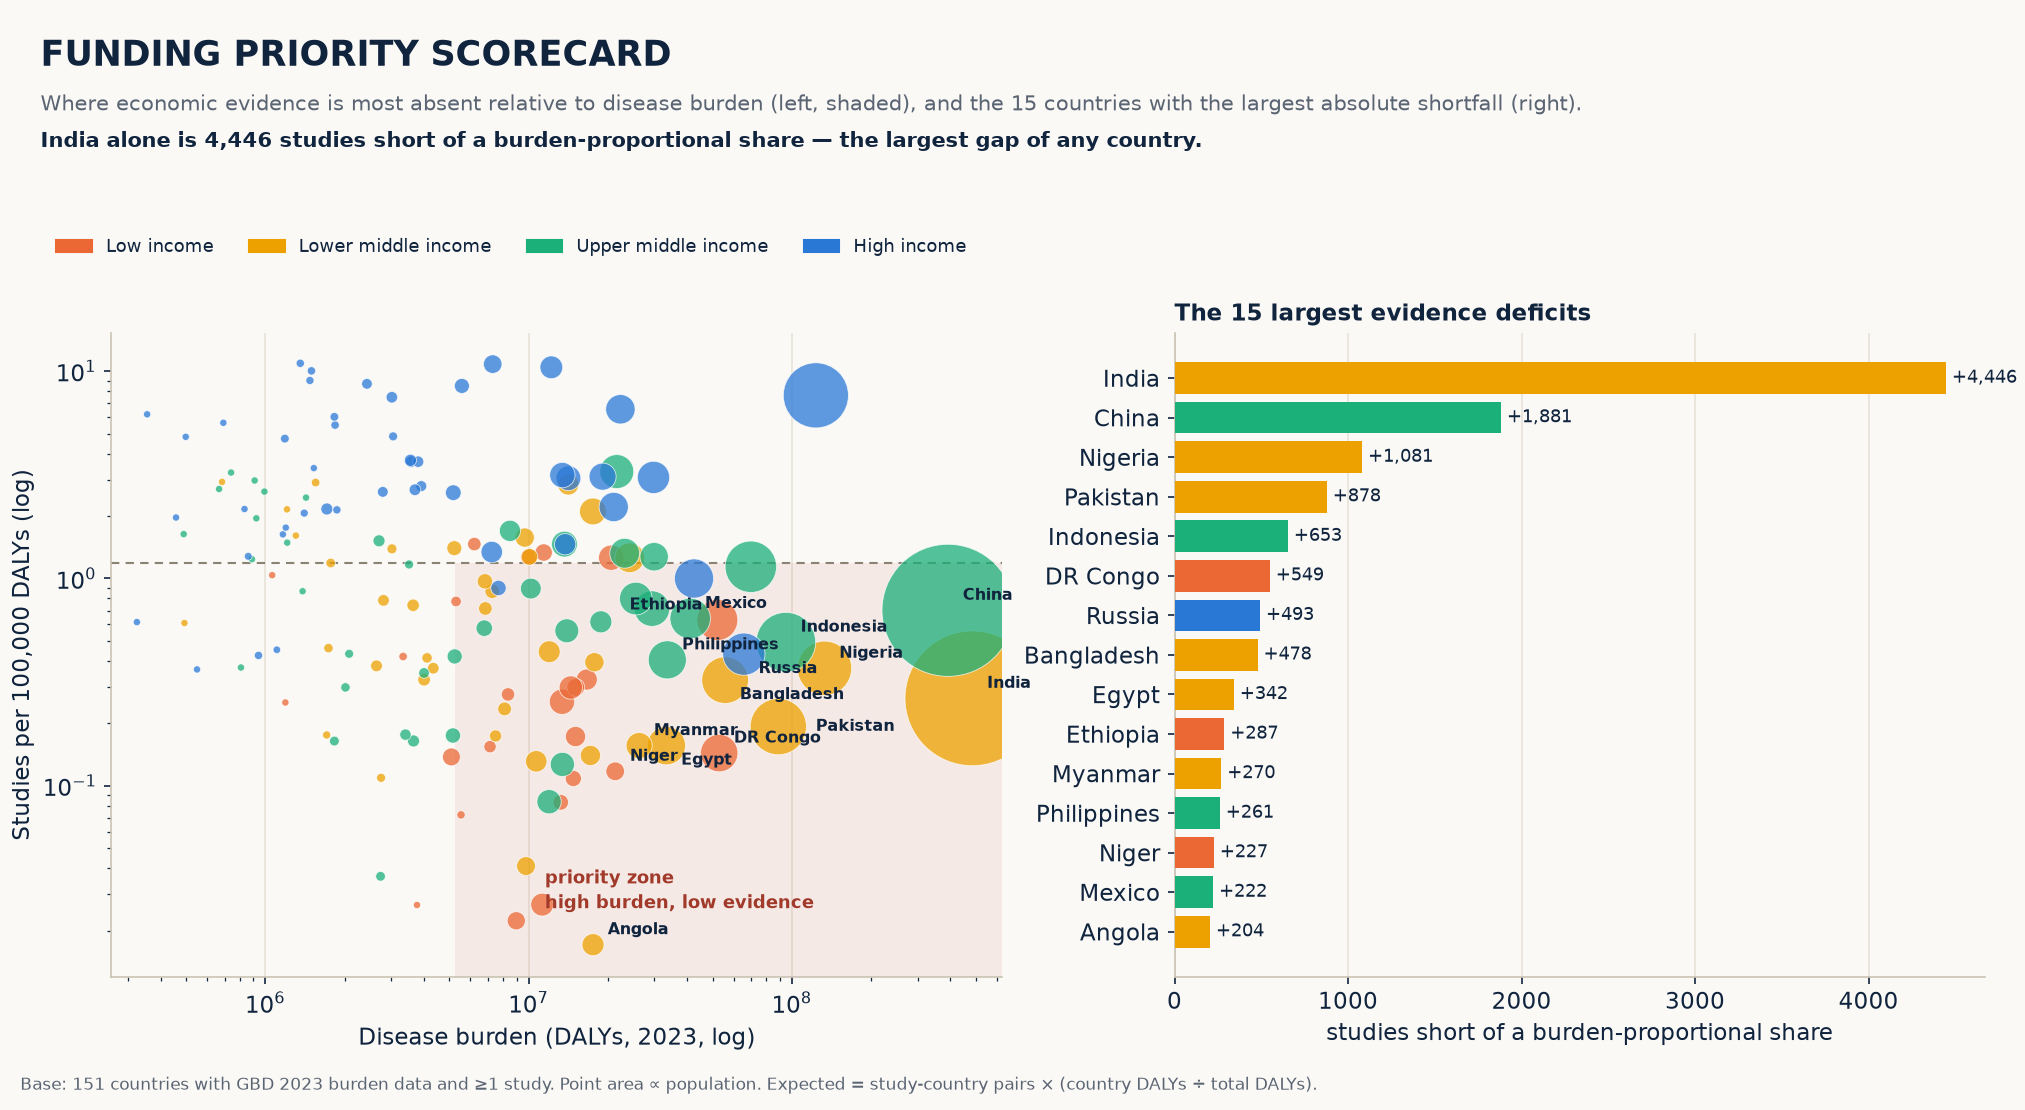
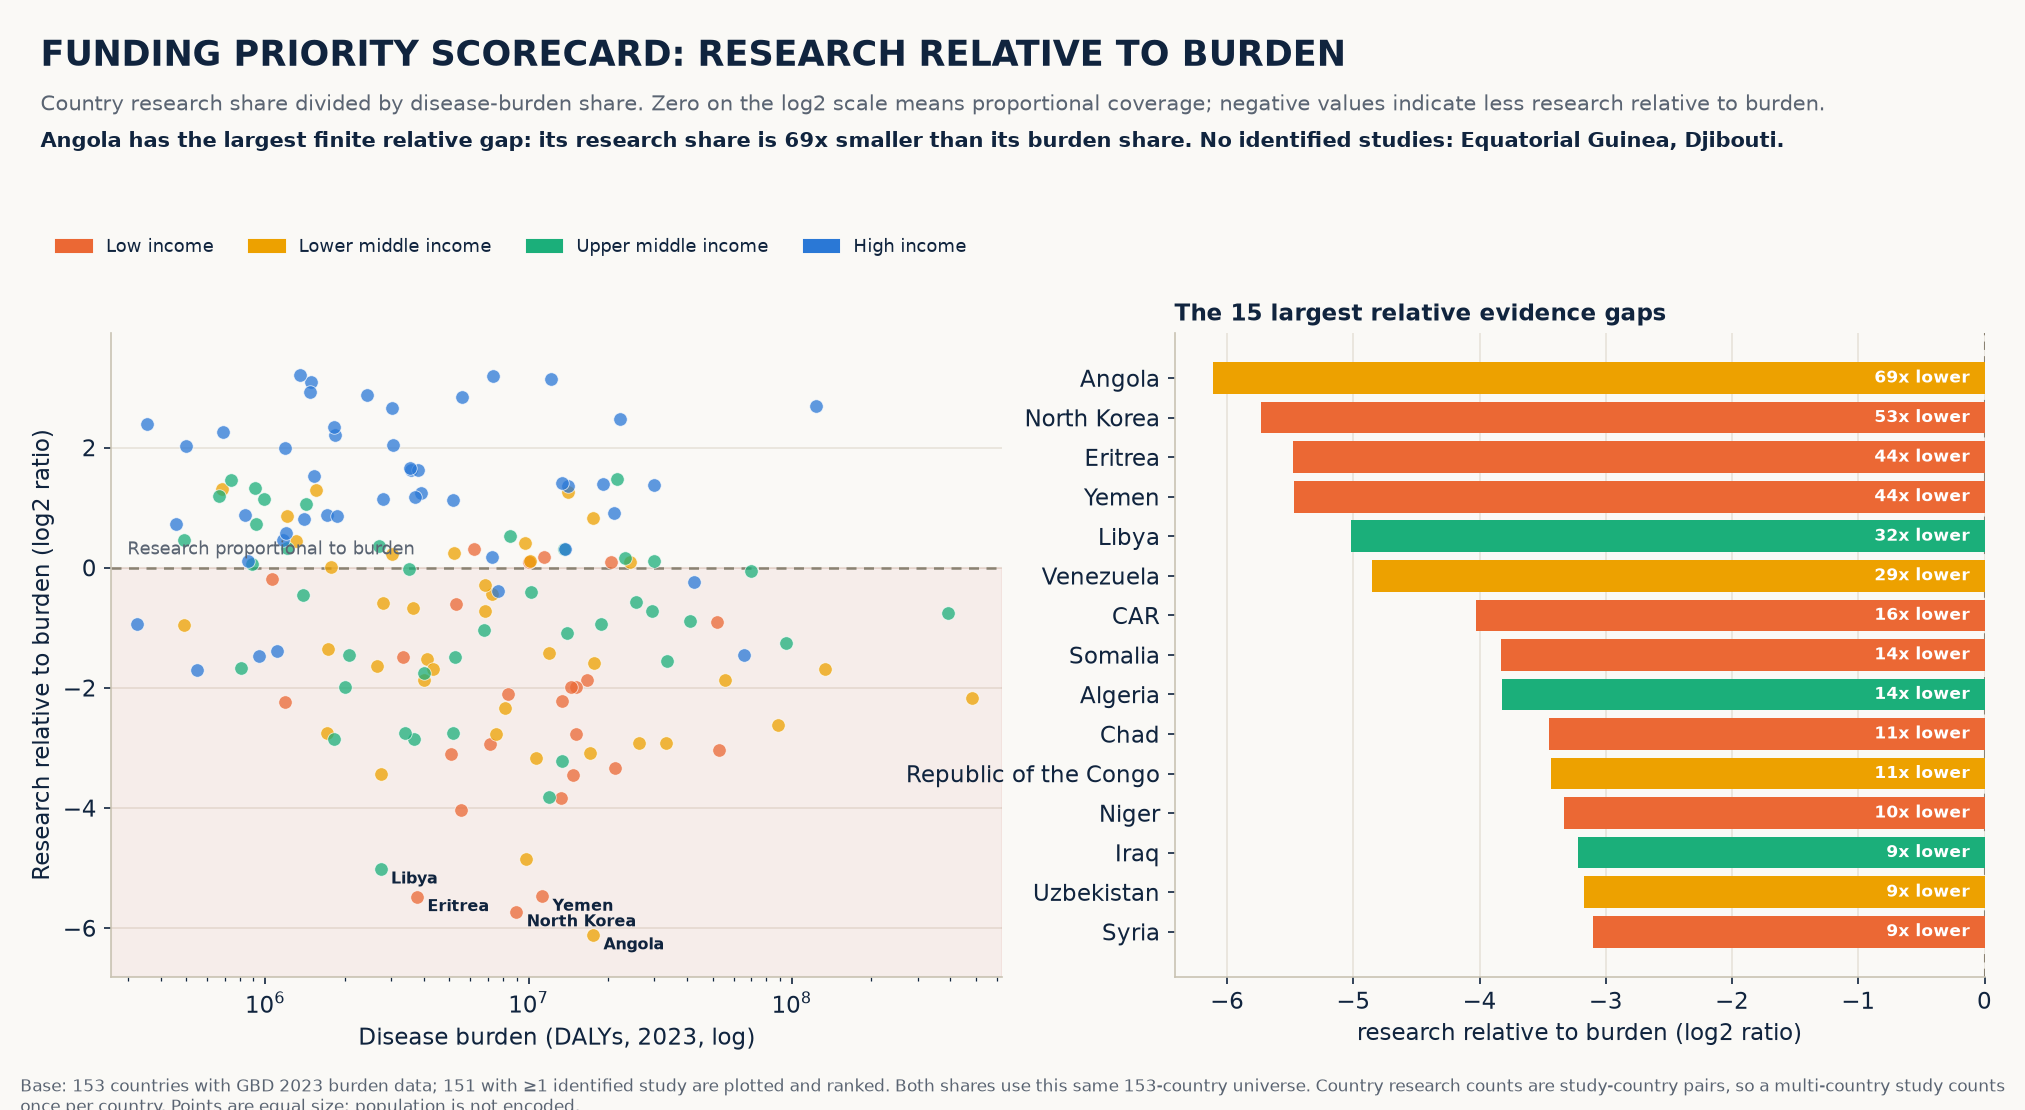
Updated figures

diff --git a/docs/index.html b/docs/index.html
@@ -41,7 +41,6 @@
   <!-- ============ OVERVIEW ============ -->
   <section class="tab-pane active" id="pane-overview">
     <div class="overview-intro">
-      <div class="overview-kicker">HSF project · Studies on health financing functions</div>
       <h2 class="hero-title">See where health financing evidence is strong — and where important gaps remain</h2>
       <div class="overview-update" id="overview-updated"></div>
       <p class="hero-text">Part of the Health Systems Financing (HSF) project, this evidence map brings together more than 36,000 studies published since 2010 that examine health financing functions — how health systems raise, pool and spend money. Explore what has been studied, where evidence is concentrated, how the field is changing, and which countries and health financing priorities remain underexplored.</p>
@@ -82,6 +81,16 @@
         </div>
       </div>
       <div class="card overview-analysis-card">
+        <div class="card-header">What gets evaluated?</div>
+        <div class="card-body overview-analysis-body">
+          <button class="overview-figure-button" id="ov-disease-method-open" type="button"
+                  aria-label="Open the figure showing how each disease area is evaluated">
+            <img class="overview-analysis-figure" src="figures/fig_disease_method.png?v=2026-10-07e"
+                 alt="Heatmap showing the mix of financing functions evaluated within each disease area">
+          </button>
+        </div>
+      </div>
+      <div class="card overview-analysis-card">
         <div class="card-header">Top research funders</div>
         <div class="card-body overview-analysis-body">
           <button class="overview-figure-button" id="ov-funders-open" type="button"
@@ -92,17 +101,7 @@
         </div>
       </div>
       <div class="card overview-analysis-card overview-analysis-card-wide">
-        <div class="card-header">What gets evaluated?</div>
-        <div class="card-body overview-analysis-body overview-analysis-body-wide">
-          <button class="overview-figure-button" id="ov-disease-method-open" type="button"
-                  aria-label="Open the figure showing how each disease area is evaluated">
-            <img class="overview-analysis-figure" src="figures/fig_disease_method.png?v=2026-10-07e"
-                 alt="Heatmap showing the mix of financing functions evaluated within each disease area">
-          </button>
-        </div>
-      </div>
-      <div class="card overview-analysis-card overview-analysis-card-wide">
-        <div class="card-header">Funding and evidence across Wellcome priority themes</div>
+        <div class="card-header">Indicative mapping of studies to Wellcome priority themes</div>
         <div class="card-body overview-analysis-body overview-analysis-body-wide">
           <button class="overview-figure-button" id="ov-wellcome-open" type="button"
                   aria-label="Open the figure showing funding and evidence across Wellcome priority themes">

diff --git a/docs/styles.css b/docs/styles.css
@@ -249,7 +249,7 @@ main { padding: 1.4rem 1.5rem 2.5rem; max-width: 1500px; margin: 0 auto; }
 }
 .overview-analysis-grid {
   display: grid;
-  grid-template-columns: repeat(3, minmax(0, 1fr));
+  grid-template-columns: repeat(2, minmax(0, 1fr));
   gap: 1rem;
   align-items: stretch;
 }

diff --git a/docs/dex_hff/build_figures_v5.py b/docs/dex_hff/build_figures_v5.py
@@ -1355,68 +1355,78 @@ fig.tight_layout()
 fig.savefig(FIGS / "fig_injustice.png", dpi=150, bbox_inches="tight")
 plt.close(fig)
 
-# --- fig_funder_scorecard: burden/intensity scatter + ranked deficit bar, side
-# by side. Mirrors HEE's own fig_funder_scorecard: a shaded "high burden, low
-# evidence" priority zone and a global-rate reference line on the scatter,
-# labelled deficit countries, a top-anchored income legend, and a 15-country
-# (not 12) deficit bar to match that reference exactly. ---
+# --- fig_funder_scorecard: size-neutral research relative to burden. Absolute
+# study shortfalls strongly favour large countries, so rank the aligned share
+# ratio instead: (country study share) / (country DALY share). ---
+scorecard_pts = cdf_b[cdf_b["studies"] > 0].copy()
+scorecard_pts["research_to_burden"] = (
+    (scorecard_pts["studies"] / TOTAL_STUDIES_ALL) /
+    (scorecard_pts["dalys"] / TOTAL_DALY_ALL)
+)
+scorecard_pts["log2_research_to_burden"] = np.log2(scorecard_pts["research_to_burden"])
+zero_study_sc = cdf_b[cdf_b["studies"] == 0].copy()
+zero_study_names_sc = ", ".join(zero_study_sc["country"].tolist())
 TOP_N_DEFICIT_SC = 15
-top_deficit_sc = cdf_b.nsmallest(TOP_N_DEFICIT_SC, "deficit").sort_values("deficit", ascending=False)
+top_deficit_sc = scorecard_pts.nsmallest(TOP_N_DEFICIT_SC, "log2_research_to_burden")
 fig = plt.figure(figsize=(13.5, 7.4))
 ax1 = fig.add_axes([0.055, 0.12, 0.44, 0.58])
 for inc in INC_ORDER:
-    sub = burden_pts[burden_pts["income"] == inc]
-    ax1.scatter(sub["dalys"], sub["per100k"].clip(lower=0.005), s=(sub["pop"] / 3.5e5).clip(lower=12),
+    sub = scorecard_pts[scorecard_pts["income"] == inc]
+    ax1.scatter(sub["dalys"], sub["log2_research_to_burden"], s=42,
                 color=INC_COLORS[inc], alpha=0.75, edgecolors="white", linewidths=0.4, zorder=3)
 ax1.set_xscale("log")
-ax1.set_yscale("log")
-
-# Priority zone: the higher-burden half of countries, below the rate a
-# perfectly burden-proportional allocation would give every country alike.
-global_rate_100k = TOTAL_STUDIES_ALL / TOTAL_DALY_ALL * 1e5
-x_min_sc, x_max_sc = burden_pts["dalys"].min() * 0.8, burden_pts["dalys"].max() * 1.3
-y_min_sc, y_max_sc = burden_pts["per100k"].clip(lower=0.005).min() * 0.7, burden_pts["per100k"].max() * 1.4
+x_min_sc, x_max_sc = scorecard_pts["dalys"].min() * 0.8, scorecard_pts["dalys"].max() * 1.3
+y_pad_sc = 0.7
+y_min_sc = scorecard_pts["log2_research_to_burden"].min() - y_pad_sc
+y_max_sc = scorecard_pts["log2_research_to_burden"].max() + y_pad_sc
 ax1.set_xlim(x_min_sc, x_max_sc)
 ax1.set_ylim(y_min_sc, y_max_sc)
-zone_x0 = burden_pts["dalys"].median()
-ax1.axhline(global_rate_100k, color="#8a8272", linewidth=1, linestyle=(0, (4, 3)), zorder=2)
-ax1.add_patch(plt.Rectangle((zone_x0, y_min_sc), x_max_sc - zone_x0, global_rate_100k - y_min_sc,
-                             facecolor="#c0392b", alpha=0.08, edgecolor="none", zorder=1))
-zone_text_sc = "priority zone\nhigh burden, low evidence"
-zone_tx_sc, zone_ty_sc = zone_x0 * 2.2, y_min_sc * 2.6
-ax1.text(zone_tx_sc, zone_ty_sc, zone_text_sc,
-         ha="left", va="center", fontsize=8.5, fontweight="bold", color="#a13a2a", linespacing=1.4)
-
-label_rows_sc = burden_pts[burden_pts["country"].isin(top_deficit_sc["country"])].sort_values("dalys")
-declutter_labels(ax1, label_rows_sc, "dalys", "per100k", name_map=SHORT_COUNTRY,
-                  avoid=[(zone_tx_sc, zone_ty_sc, "left", zone_text_sc)])
+ax1.axhspan(y_min_sc, 0, color="#c0392b", alpha=0.06, zorder=1)
+ax1.axhline(0, color="#8a8272", linewidth=1.2, linestyle=(0, (4, 3)), zorder=2)
+ax1.text(x_min_sc * 1.15, 0.15, "Research proportional to burden", ha="left", va="bottom",
+         fontsize=8.5, color=SUBHEAD_COLOR)
+for _, row in top_deficit_sc.head(5).iterrows():
+    ax1.annotate(SHORT_COUNTRY.get(row["country"], row["country"]),
+                 xy=(row["dalys"], row["log2_research_to_burden"]), xytext=(5, -7),
+                 textcoords="offset points", fontsize=7.8, fontweight="bold", color=INK)
 
 ax1.set_xlabel("Disease burden (DALYs, 2023, log)")
-ax1.set_ylabel("Studies per 100,000 DALYs (log)")
+ax1.set_ylabel("Research relative to burden (log2 ratio)")
 clean_axes(ax1)
+ax1.grid(False)
+ax1.grid(axis="y", color="#e7e3da", linewidth=0.8, zorder=0)
 
 ax2 = fig.add_axes([0.58, 0.12, 0.4, 0.58])
-ax2.barh([SHORT_COUNTRY.get(c, c) for c in top_deficit_sc["country"]], -top_deficit_sc["deficit"],
+ax2.barh([SHORT_COUNTRY.get(c, c) for c in top_deficit_sc["country"]],
+         top_deficit_sc["log2_research_to_burden"],
          color=[INC_COLORS.get(i, GREY) for i in top_deficit_sc["income"]], zorder=3)
-for y, v in enumerate(-top_deficit_sc["deficit"]):
-    ax2.text(v, y, f" +{v:,.0f}", va="center", fontsize=8.5, color=INK)
-ax2.set_xlabel("studies short of a burden-proportional share")
-ax2.set_title(f"The {TOP_N_DEFICIT_SC} largest evidence deficits", fontsize=11, fontweight="bold",
+ax2.invert_yaxis()
+for y, (_, row) in enumerate(top_deficit_sc.iterrows()):
+    fold_below = 1 / row["research_to_burden"]
+    ax2.text(-0.12, y, f"{fold_below:.0f}x lower", va="center", ha="right",
+             fontsize=8.2, fontweight="bold", color="white")
+ax2.axvline(0, color="#8a8272", linewidth=1, linestyle=(0, (4, 3)), zorder=2)
+ax2.set_xlabel("research relative to burden (log2 ratio)")
+ax2.set_title(f"The {TOP_N_DEFICIT_SC} largest relative evidence gaps", fontsize=11, fontweight="bold",
               color=INK, loc="left")
 clean_axes(ax2)
 
-sc_headline = "Funding priority scorecard"
-sc_desc = (f"Where economic evidence is most absent relative to disease burden (left, shaded), and the "
-           f"{TOP_N_DEFICIT_SC} countries with the largest absolute shortfall (right).")
-sc_finding = (f"{biggest_deficit['country']} alone is {abs(round(biggest_deficit['deficit'])):,} studies short "
-              f"of a burden-proportional share — the largest gap of any country.")
+lowest_sc = top_deficit_sc.iloc[0]
+sc_headline = "Funding priority scorecard: research relative to burden"
+sc_desc = ("Country research share divided by disease-burden share. Zero on the log2 scale means proportional "
+           "coverage; negative values indicate less research relative to burden.")
+sc_finding = (f"{lowest_sc['country']} has the largest finite relative gap: its research share is "
+              f"{1 / lowest_sc['research_to_burden']:.0f}x smaller than its burden share. "
+              f"No identified studies: {zero_study_names_sc}.")
 FIG_META["fig_funder_scorecard.png"] = (sc_headline, sc_desc, sc_finding)
 fig.text(0.02, 0.965, D(sc_headline.upper()), fontsize=17, fontweight="bold", color=INK, ha="left", va="top")
 fig.text(0.02, 0.915, D(sc_desc), fontsize=10, color=SUBHEAD_COLOR, ha="left", va="top", wrap=True)
 fig.text(0.02, 0.882, D(sc_finding), fontsize=10, fontweight="bold", color=INK, ha="left", va="top", wrap=True)
 income_legend(fig, loc="upper left", ncol=4, bbox_to_anchor=(0.02, 0.80))
-fig.text(0.01, 0.03, f"Base: {len(burden_pts):,} countries with GBD 2023 burden data and ≥1 study. Point "
-                     f"area ∝ population. Expected = study-country pairs × (country DALYs ÷ total DALYs).",
+fig.text(0.01, 0.03, f"Base: {len(cdf_b):,} countries with GBD 2023 burden data; {len(scorecard_pts):,} with ≥1 "
+                     f"identified study are plotted and ranked. Both shares use this same {len(cdf_b):,}-country "
+                     f"universe. Country research counts are study-country pairs, so a multi-country study counts "
+                     f"once per country. Points are equal size; population is not encoded.",
          fontsize=8, color=SUBHEAD_COLOR, ha="left", va="top", wrap=True)
 fig.patch.set_facecolor(PAPER)
 ax1.set_facecolor(PAPER)
@@ -2266,9 +2276,9 @@ if have_funders:
     ]
     priority_order = ["Infectious Diseases", "Mental Health", "Climate & Health"]
     priority_colors = {
-        "Infectious Diseases": "#2f79b9",
-        "Mental Health": "#7965a8",
-        "Climate & Health": "#25835f",
+        "Infectious Diseases": "#2f6fb0",
+        "Mental Health": "#2a9d8f",
+        "Climate & Health": "#67a65b",
     }
     priorities_of_s = {}
     for row in priority_raw.itertuples(index=False):
@@ -2313,7 +2323,7 @@ if have_funders:
         f"{leading_donor} funds the largest number of priority-theme study links."
     )
     FIG_META["fig_wellcome_priorities.png"] = (
-        "Funding and evidence across Wellcome priority themes",
+        "Indicative mapping of studies to Wellcome priority themes",
         priority_desc,
         priority_finding,
     )
@@ -2322,7 +2332,7 @@ if have_funders:
     gs = fig.add_gridspec(1, 2, width_ratios=[0.82, 1.45], wspace=0.42)
     ax_a = fig.add_subplot(gs[0, 0])
     ax_b = fig.add_subplot(gs[0, 1])
-    fig.suptitle("Funding and evidence across Wellcome priority themes", x=0.055, y=0.965,
+    fig.suptitle("Indicative mapping of studies to Wellcome priority themes", x=0.055, y=0.965,
                  ha="left", fontsize=19, fontweight="bold", color=INK)
     fig.text(0.055, 0.905, priority_desc, ha="left", va="top", fontsize=10.5,
              color=SUBHEAD_COLOR)
@@ -2335,11 +2345,11 @@ if have_funders:
               height=0.58, zorder=3)
     ax_a.set_yticks(bar_y, priority_order)
     ax_a.invert_yaxis()
-    ax_a.set_xlabel("studies")
+    ax_a.set_xlabel(f"studies (share of all {N:,} studies)")
     ax_a.set_title("Panel A - How much evidence addresses\nWellcome priority themes?",
                    loc="left", fontsize=11.5, fontweight="bold", color=INK, pad=14)
     for y, value in zip(bar_y, bar_values):
-        ax_a.text(value, y, f"  {value:,}  ({100 * value / N:.1f}%)",
+        ax_a.text(value, y, f"  {value:,}  ({100 * value / N:.1f}% of all studies)",
                   va="center", ha="left", fontsize=9.5, fontweight="bold", color=INK)
     ax_a.set_xlim(0, max(bar_values) * 1.42 if bar_values else 1)
     clean_axes(ax_a)
@@ -2375,7 +2385,8 @@ if have_funders:
 
     fig.text(
         0.055, 0.025,
-        f"Base: all {N:,} studies. Themes are independent flags and may overlap. Infectious Diseases and "
+        f"Base and percentage denominator: all {N:,} studies in the evidence map. Themes are independent "
+        "flags and may overlap. Infectious Diseases and "
         "Mental Health use explicit disease/mental-health terms in existing MeSH-derived metadata; Climate "
         "& Health uses explicit climate/heat MeSH terms or the OpenAlex topic 'Climate Change and Health "
         "Impacts'. Panel B disaggregates the top 12 normalized funders overall; a multi-funder study "
@@ -5233,7 +5244,7 @@ gallery = [
              fig_entry("fig_topicmap_income.png", "Themes by income skew")] if have_topics else []
         ) + (
             [fig_entry("fig_wellcome_priorities.png",
-                       "Funding and evidence across Wellcome priority themes")] if have_funders else []
+                       "Indicative mapping of studies to Wellcome priority themes")] if have_funders else []
         ),
     } if (have_topics or have_taxonomy) else None,
     {
